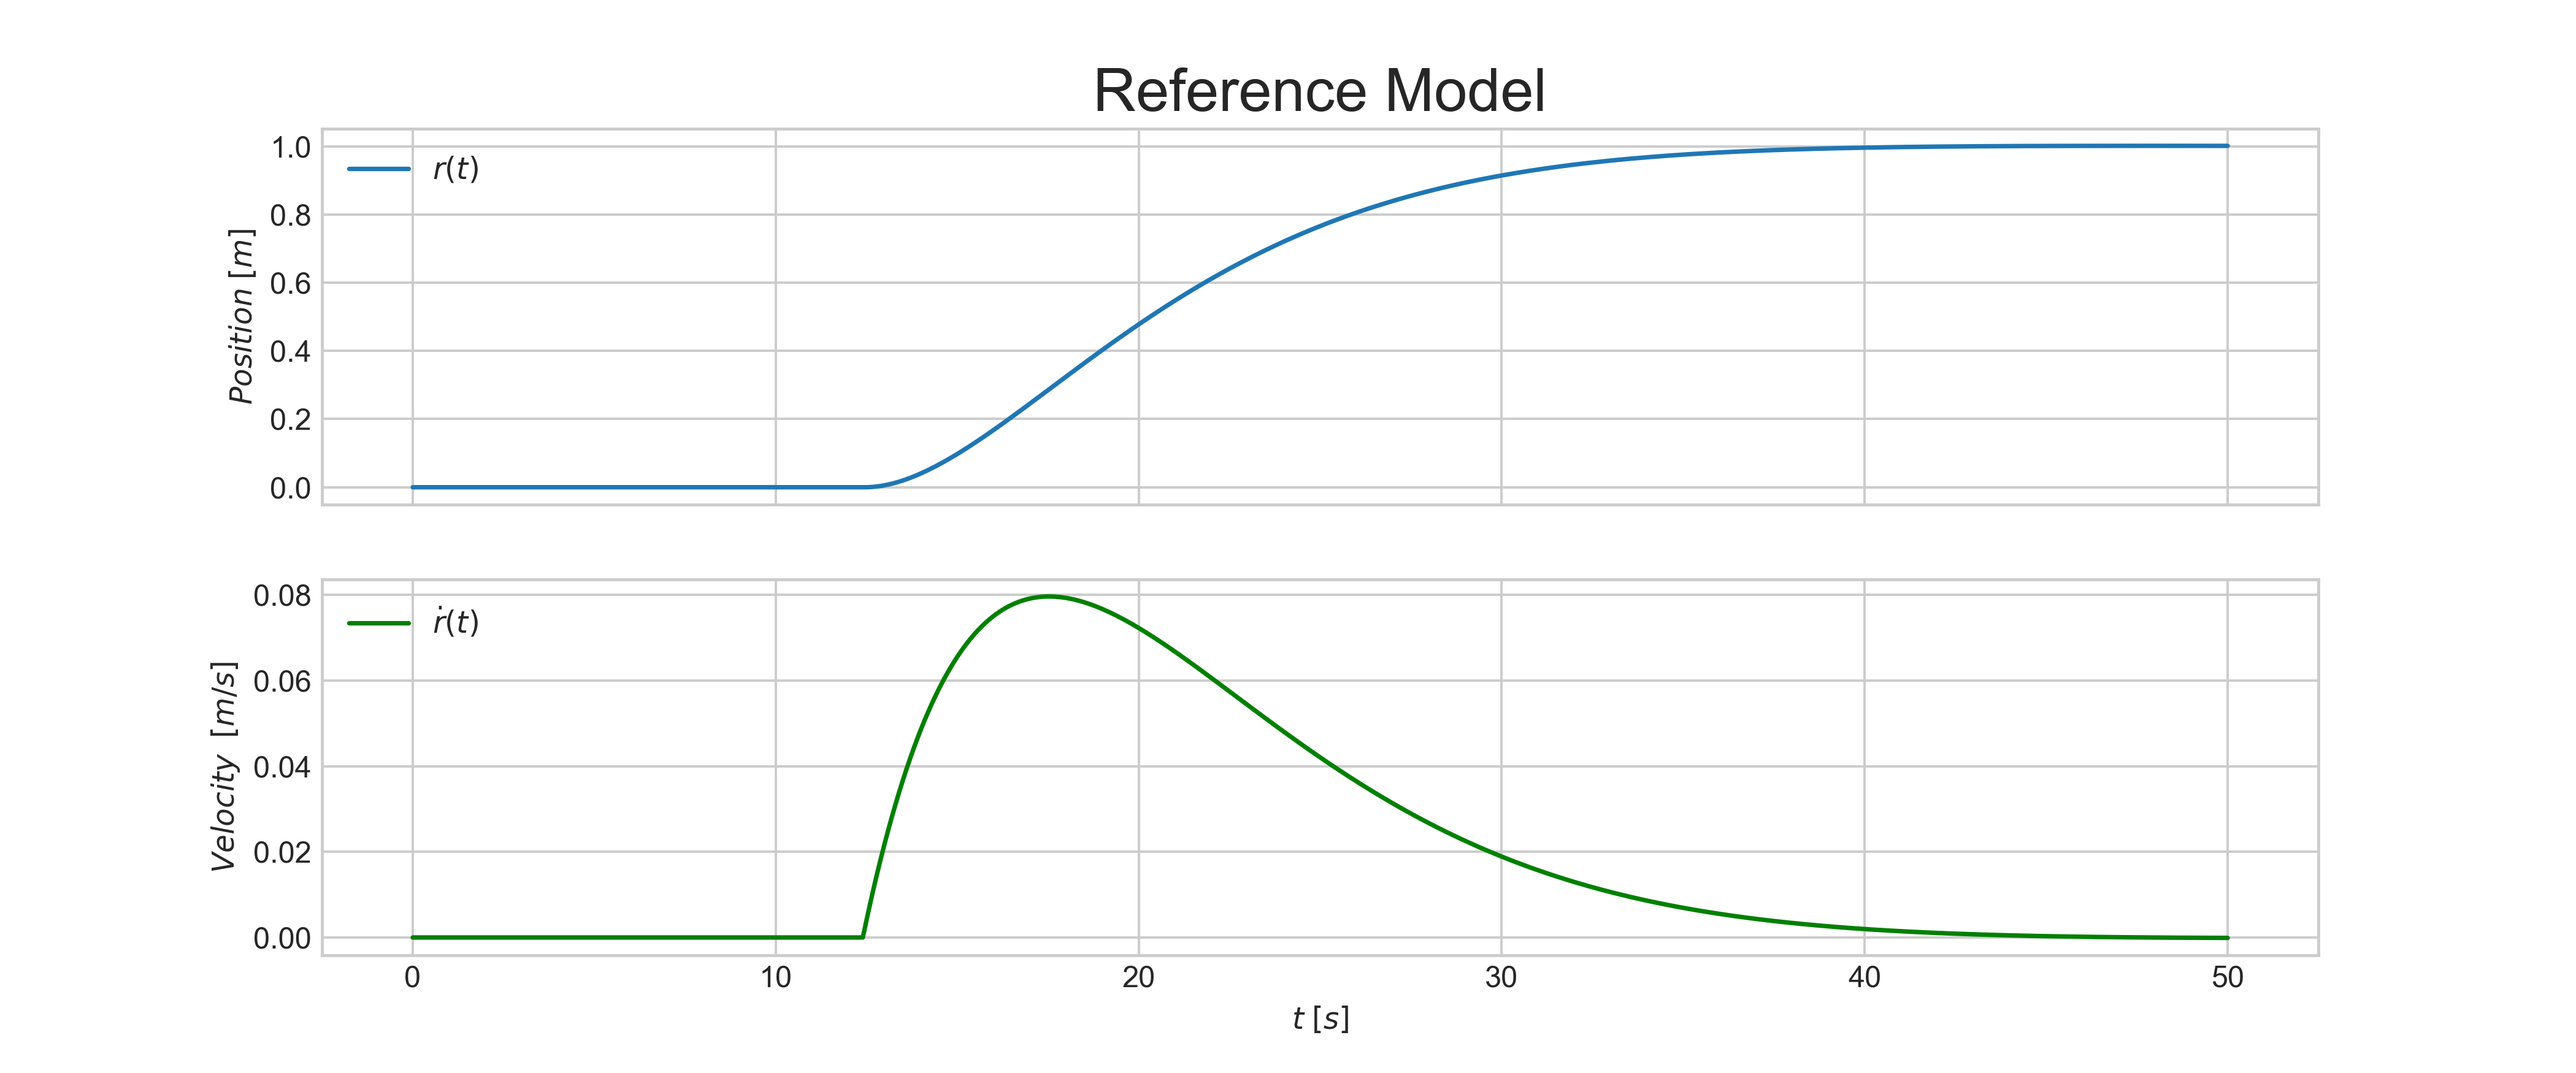
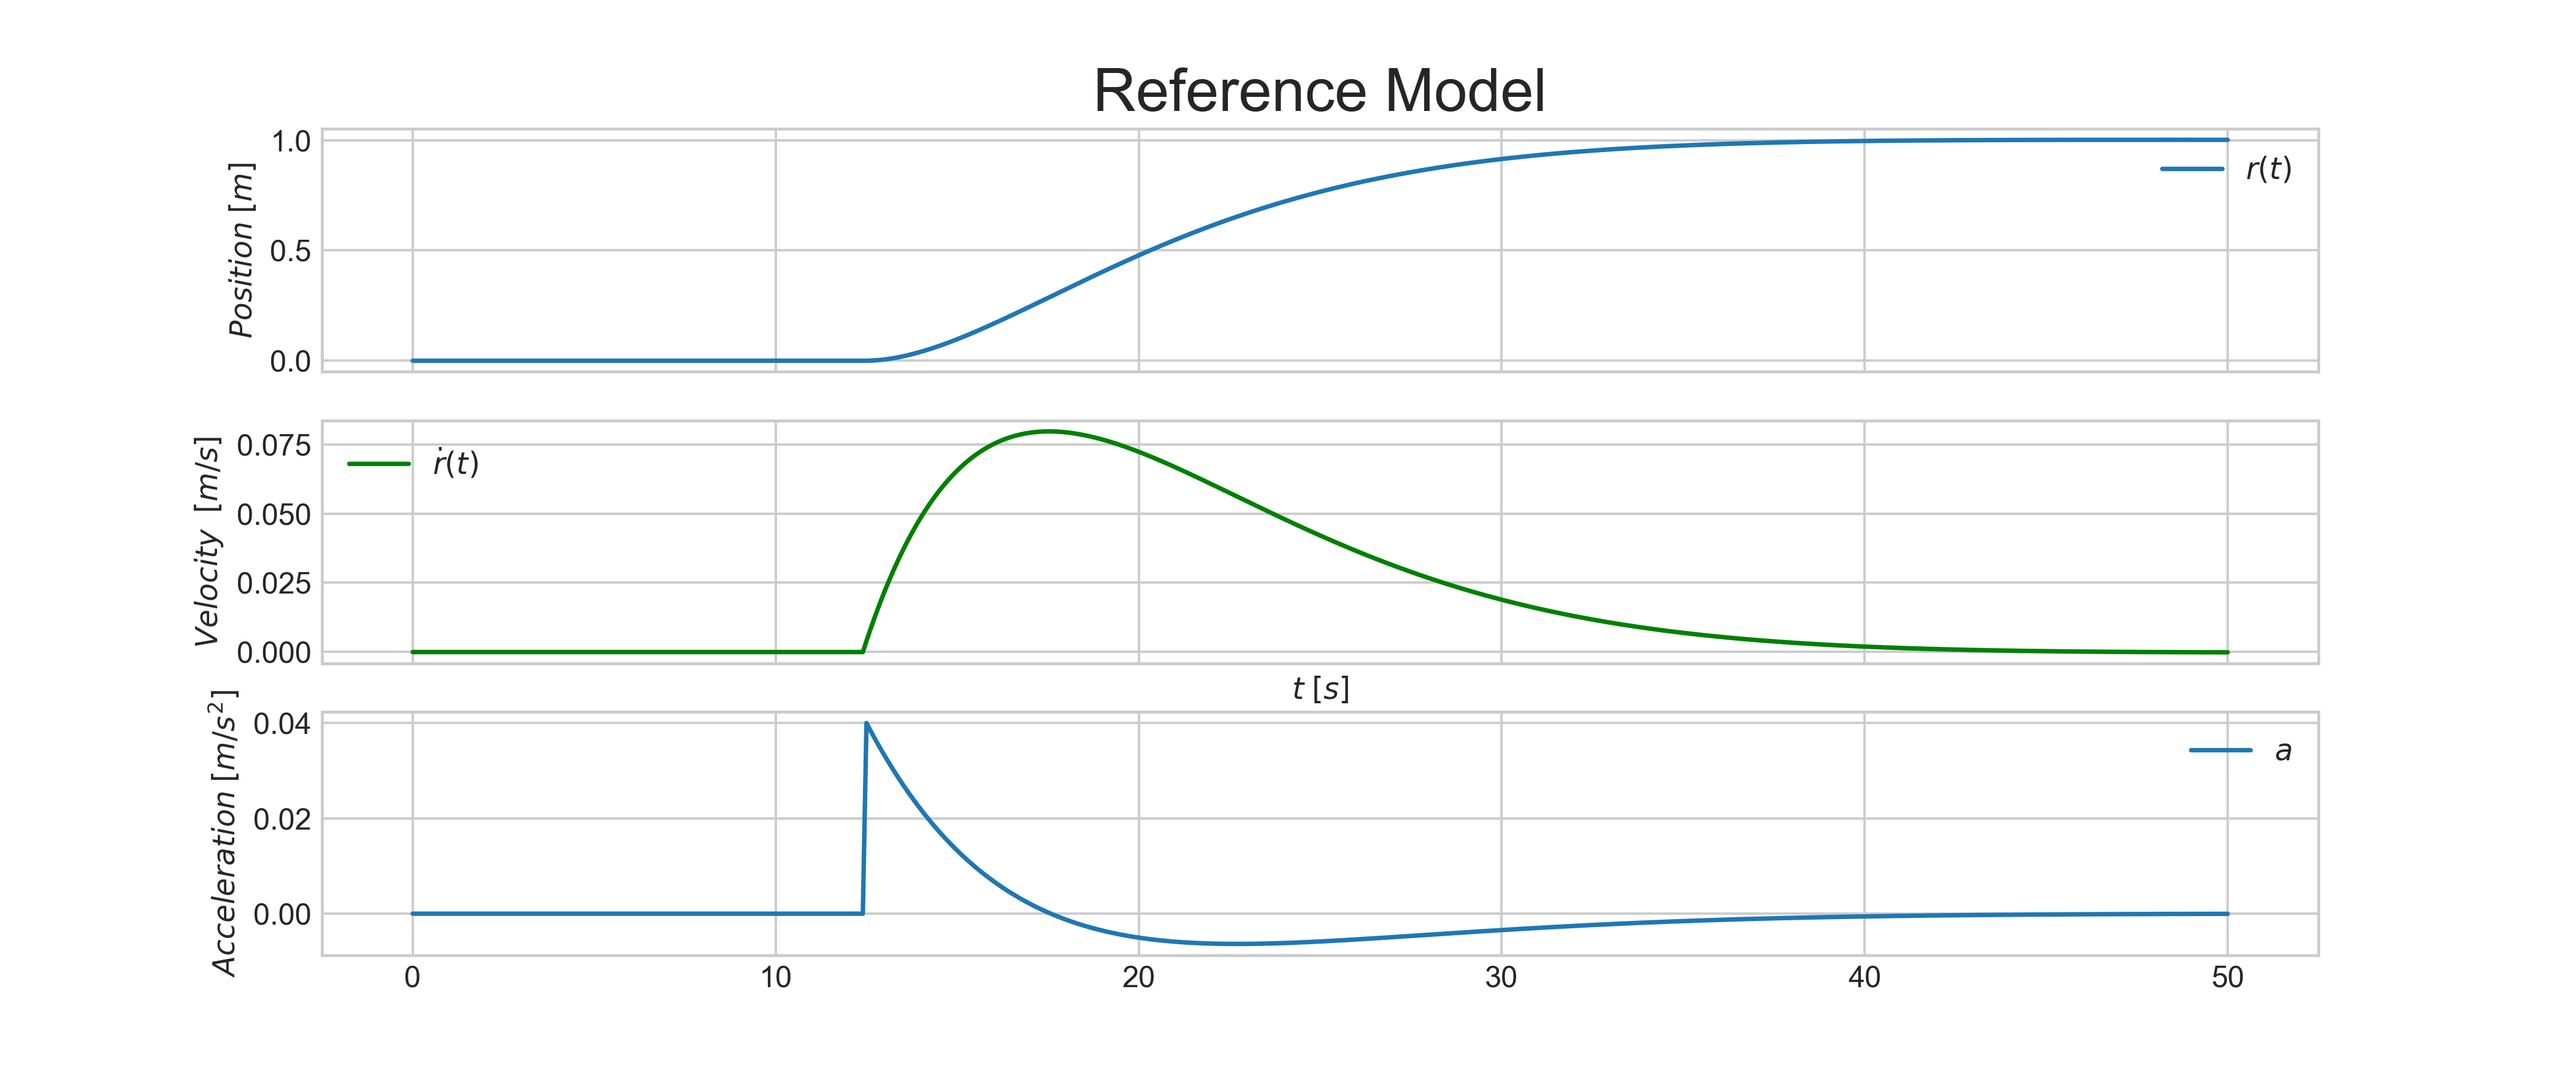
Implemented backstepping controller and observer

diff --git a/simulation.py b/simulation.py
@@ -1,0 +1,71 @@
+# %%
+from referenceModel import dt, t, r, v, a, dir
+from backstepping import controller
+from observer import observer
+import numpy as np
+import matplotlib.pyplot as plt
+import os
+
+plt.style.use('seaborn-whitegrid')
+plt.rcParams.update({
+    'figure.figsize': (12, 4)
+})
+
+m = 10
+g = 9.81
+d = 1.4
+
+
+def dxdt(x, u):
+    return np.array([x[1], -d/m*x[1] + u/m])
+
+
+k1 = 8
+k2 = 5
+
+x = np.zeros((2, len(t)))
+x_hat = np.zeros((3, len(t)))
+
+x[:, 0] = np.array([0.0, 0.])
+x_hat[:, 0] = np.array([0.4, 0, .5])
+
+tau = 0
+for i in range(1, len(t)):
+    x[:, i] = x[:, i-1] + dt*dxdt(x[:, i-1], tau)
+    tau = controller(x[0, i], x[1, i], r[i], v[i], a[i], k1, k2, d, m)
+    x_hat[:, i] = x_hat[:, i-1] + dt*observer(x_hat[:, i-1], x[0, i], tau)
+
+
+fig, ax = plt.subplots(2, 1, sharex=True)
+ax[0].plot(t, x[0, :], label="$x$")
+ax[0].set_ylabel("Position $[m]$")
+ax[0].legend()
+ax[1].plot(t, x[1, :], label="$v$")
+ax[1].set_ylabel("Velocity $[m/s]$")
+ax[1].set_xlabel("$t \; [s]$")
+ax[1].legend()
+plt.show()
+
+
+fig, ax = plt.subplots(2, 1, sharex=True)
+ax[0].plot(t, x[0, :], label="$x$")
+ax[0].plot(t, r[:], label="$x_d$")
+ax[0].legend()
+ax[1].plot(t, x[1, :], label="$v$")
+ax[1].plot(t, v[:], label="$v_d$")
+ax[1].legend()
+plt.savefig(os.path.join(dir, 'simulation_w_backstepping.png'), dpi=350)
+plt.show()
+
+fig, ax = plt.subplots(3, 1, sharex=True)
+ax[0].set_title("Observer")
+ax[0].plot(t, x_hat[0, :], label=r"$\hat{x}$")
+ax[0].legend()
+ax[1].plot(t, x_hat[1, :], label=r"$\hat{v}$")
+ax[1].legend()
+ax[2].plot(t, x_hat[2, :], label=r"$\hat{b}$")
+ax[2].legend()
+plt.savefig(os.path.join(dir, 'ObserverResults.png'), dpi=350)
+plt.show()
+
+# %%

diff --git a/referenceModel.py b/referenceModel.py
@@ -46,15 +46,22 @@ r = x[0, :]
 # Reference velocity v
 v = x[1, :]
 
+# Reference acceleration
+a = np.zeros(len(t))
+a[1:] = (v[1:] - v[0:-1])/dt
 
-fig, ax = plt.subplots(2, 1, sharex=True)
-ax[0].set_title("Reference Model", fontsize=20)
-ax[0].plot(t, r, label="$r(t)$")
-ax[0].set_ylabel("$Position \; [m]$")
-ax[0].legend()
-ax[1].plot(t, v, 'g-', label=r"$\dot{r}(t)$")
-ax[1].set_ylabel("$Velocity \;\; [m/s]$")
-ax[1].set_xlabel("$t \; [s]$")
-ax[1].legend(loc="upper left")
-plt.savefig(os.path.join(dir, 'reference_pos_vel.png'), dpi=350)
-plt.show()
+if __name__ == "__main__":
+    fig, ax = plt.subplots(3, 1, sharex=True)
+    ax[0].set_title("Reference Model", fontsize=20)
+    ax[0].plot(t, r, label="$r(t)$")
+    ax[0].set_ylabel("$Position \; [m]$")
+    ax[0].legend()
+    ax[1].plot(t, v, 'g-', label=r"$\dot{r}(t)$")
+    ax[1].set_ylabel("$Velocity \;\; [m/s]$")
+    ax[1].set_xlabel("$t \; [s]$")
+    ax[1].legend(loc="upper left")
+    ax[2].plot(t, a, label="$a$")
+    ax[2].set_ylabel("$Acceleration \; [m/s^2]$")
+    ax[2].legend()
+    plt.savefig(os.path.join(dir, 'reference_pos_vel.png'), dpi=350)
+    plt.show()

diff --git a/backstepping.py b/backstepping.py
@@ -1,0 +1,35 @@
+import numpy as np
+
+
+def z1(x1, xd):
+    return x1 - xd
+
+
+def z2(x2, alpha1):
+    return x2 - alpha1
+
+
+def z1_dot(x2, x_d_dot):
+    return x2 - x_d_dot
+
+
+def alpha1(xd_dot, k1, z1):
+    return xd_dot - k1*z1
+
+
+def alpha1_dot(x_d_dot, x_d_2dot, k1, z2, alpha):
+    return x_d_2dot - k1*(z2+alpha - x_d_dot)
+
+
+def tau(z_1, alpha1, alpha1_dot, d, m, k2, z_2):
+    return m*(-z_1 + alpha1_dot + d/m*alpha1 - k2*z_2)
+
+
+def controller(x1, x2, xd, xd_dot, xd_dotdot, k1, k2, d, m):
+    z_1 = z1(x1, xd)
+    alpha = alpha1(xd_dot, k1, z_1)
+    z_2 = z2(x2, alpha)
+    #z_1_dot = z1_dot(x2, xd_dot)
+    alpha_dot = alpha1_dot(xd_dot, xd_dotdot, k1, z_2, alpha)
+    control = tau(z_1, alpha, alpha_dot, d, m, k2, z_2)
+    return control

diff --git a/observer.py b/observer.py
@@ -1,0 +1,25 @@
+import numpy as np
+
+# Set the observer parameters
+m_obs = 9       # 1 kg difference from simulation model
+d_obs = 1       # .4 difference from simulation model
+
+# Observer gains
+L1 = 5
+L2 = 5
+L3 = 5
+
+
+def observer(x, y, tau):
+    x1 = x[0]
+    x2 = x[1]
+    b = x[2]    # Bias
+    x_bar = y - x1
+    x1_hat = x2 + L1*x_bar
+    x2_hat = 1/m_obs*(-d_obs*x2 + tau + b + L2*x_bar)
+    b_hat = L3*x_bar
+    return np.array([x1_hat, x2_hat, b_hat])
+
+
+if __name__ == "__main__":
+    print(__file__)
